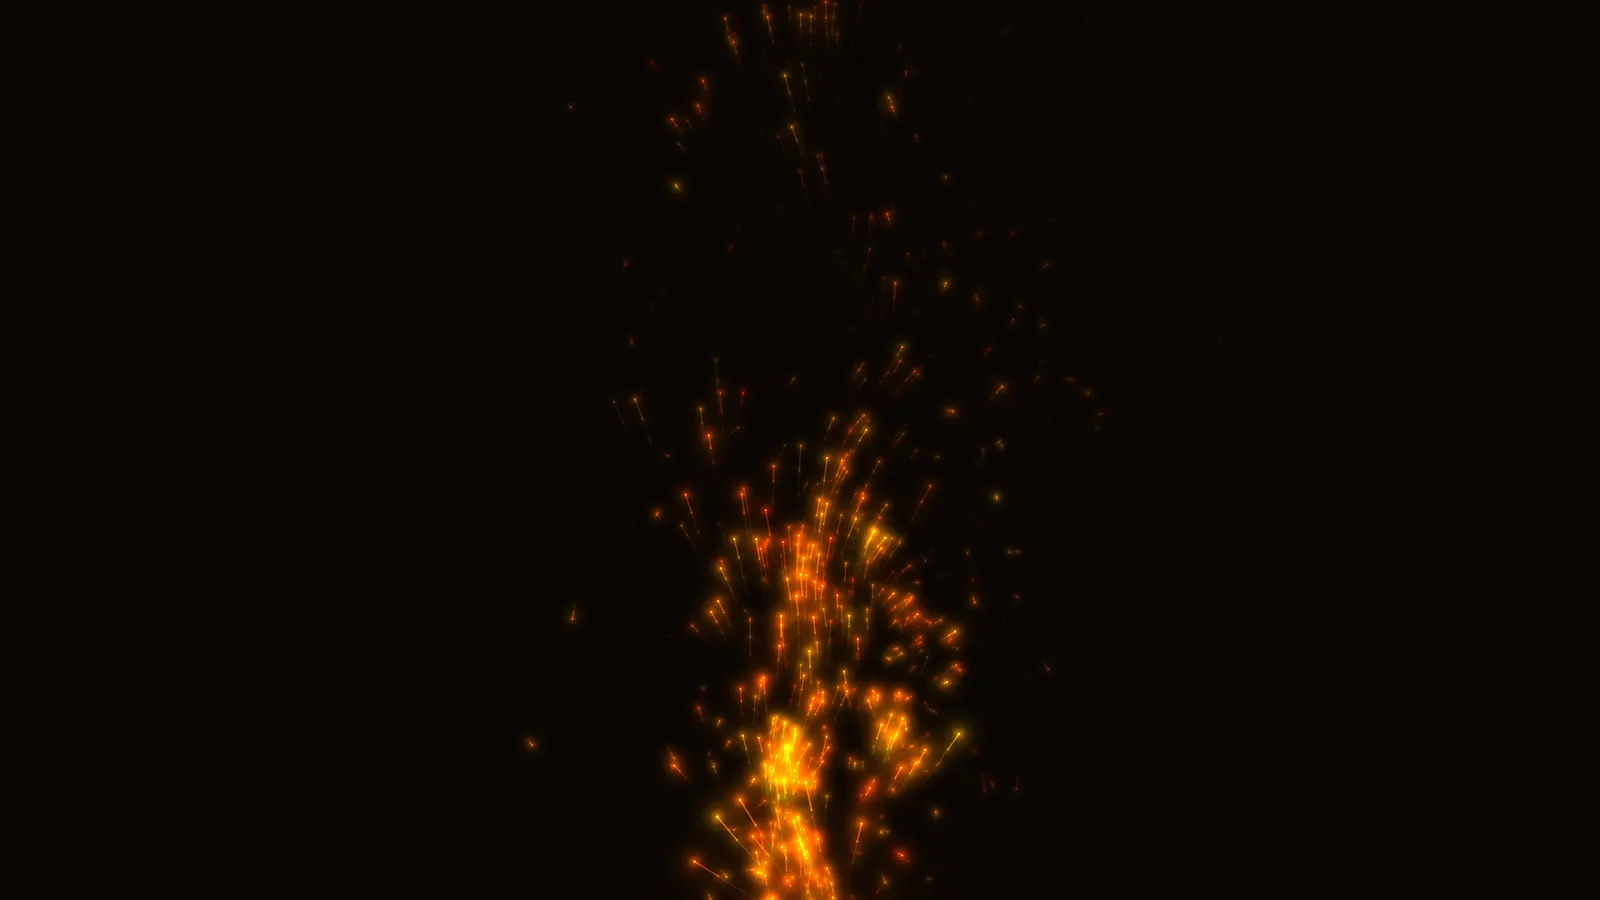
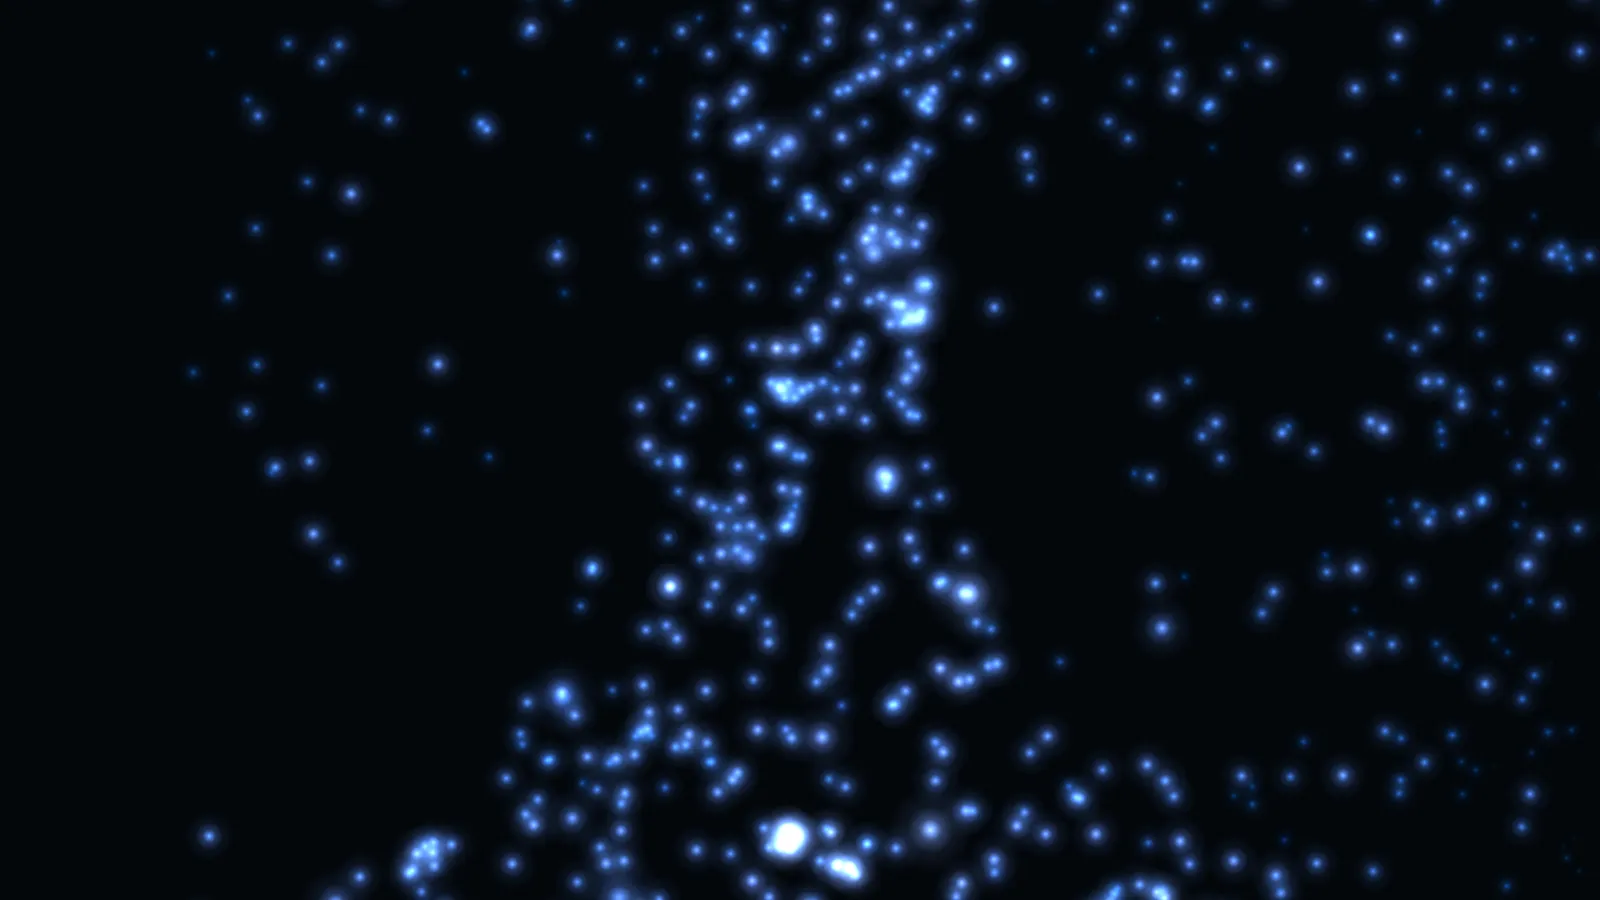
feat(embers): the note and the poster follow winter blues
Locking the primary in meant three surfaces had to move with it, and two of
them had gone stale in the same way the section already refuses for one
field.

**The note's theme was warm.** `accent` was derived from the primary's hue —
the section has a check for exactly that — but `bg`, `sheet`, `fg`, `muted`
and `edge` were hand-written near-blacks and creams. Right while every
preset was a fire; wrong the moment the primary was a blue one, so the sheet
came out warm brown around a cold piece. A derived accent on furniture that
cannot move with it is the same staleness one field over. The whole theme
turns with the hue now, and `bg` is the piece's own `groundColour` rather
than a second opinion about it.

**And the backdrop had stopped being the primary at all.** It picked six
fields off it and wrote the rest out, so with `winter blues` — soft blue
motes at a flare of 0.5 — it was drawing tailed embers at 1.5, with a
different size range, a different heat and a hue spread the scene does not
have. A visitor met one piece on the note and another behind it. It spreads
the primary now and turns down only the busyness, which is what "the piece,
as scenery" should have meant all along.

The poster's `settings` had gone stale twice over: it re-framed for a narrow
primary that no longer exists, and *lowered* `sputter` from a value tuned
for a different scene while its own comment claimed to be raising it. Only
[…]

diff --git a/src/experiments/embers/poster.ts b/src/experiments/embers/poster.ts
@@ -24,19 +24,29 @@ const poster: PosterRecipe<ExperimentApi> = {
   preset: "winter blues",
 
   /**
-   * The primary, wound up a little — and no longer re-framed.
+   * The primary, with only its events wound up.
    *
-   * This used to override `span`, because the primary was a narrow fire and a
-   * 16:9 still of a vertical column is mostly empty picture. Every primary since
-   * has been a bed wider than the frame, which fills a wide still by itself, so
-   * the only thing left to wind up is how busy the fire is: a shutter catching a
-   * thin moment reads as a sparse piece rather than as a quiet second of a busy
-   * one.
+   * This used to override `span` and `sputter`, and both had gone stale: it
+   * re-framed because an older primary was a narrow fire and a 16:9 still of a
+   * vertical column is mostly empty picture, and it *lowered* sputter from a
+   * value tuned for a different scene while the comment claimed to be raising
+   * it. Every primary since has been a bed wider than the frame, which fills a
+   * wide still by itself, and `winter blues` is already busy.
+   *
+   * So the only thing left to ask for is more of what a single frame is least
+   * likely to catch. A shutter landing between bursts photographs a quiet second
+   * of a lively piece, which is nothing wrong with that second — just not the
+   * one worth hanging.
    */
-  settings: { sputter: 1.6, bursts: 12, playback: 0.35 },
+  settings: { bursts: 12 },
 
-  dwellMs: 1_400,
-  attempts: 8,
+  // Wider sampling than a piece with a fixed arrangement needs, and for a
+  // reason particular to a windy scene: the crosswind wanders on its own slow
+  // clock, so eight frames 1.4 s apart all land inside one phase of it and can
+  // all be lopsided the same way. Ten frames 2.2 s apart covers twenty-two
+  // seconds and gets a choice.
+  dwellMs: 2_200,
+  attempts: 10,
 }
 
 export default poster

diff --git a/src/experiments/embers/about.md b/src/experiments/embers/about.md
@@ -3,7 +3,7 @@ slug: embers
 title: Embers
 summary: Sparks off an unseen fire, riding a buoyant plume and the vortices it sheds, glowing at whatever colour their temperature says.
 started: 2026-09-07
-updated: 2026-09-07
+updated: 2026-09-12
 poster: ./poster.webp
 tags:
   - canvas
